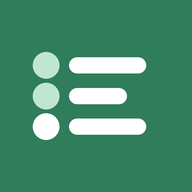
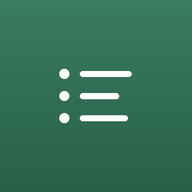
update

diff --git a/index.html b/index.html
@@ -219,8 +219,8 @@ body:not(.shop) .shoponly,body:not(.shop) .nx,body:not(.shop) .shopbar{display:n
 @keyframes tin{from{opacity:0;transform:translate(-50%,10px)}}
 .toast button{font-weight:600;white-space:nowrap;color:inherit;text-decoration:underline;text-underline-offset:3px}
 .gate{position:fixed;inset:0;z-index:40;background:var(--bg);display:grid;place-items:center;padding:24px;text-align:center}
-.gate .logo{width:64px;height:64px;border-radius:18px;background:var(--acc);color:var(--acc-ink);display:grid;place-items:center;margin:0 auto 20px}
-.gate .logo .i{width:32px;height:32px;stroke-width:2.2}
+.gate .logo{width:60px;height:60px;border-radius:17px;background:var(--acc);color:var(--acc-ink);display:grid;place-items:center;margin:0 auto 20px}
+.gate .logo .i{width:28px;height:28px;stroke-width:1.8}
 .gate h1{font-size:24px;font-weight:600;letter-spacing:-.015em;margin-bottom:6px}
 .gate p{color:var(--mute);max-width:300px;margin:0 auto 24px;font-size:15px}
 @media (prefers-reduced-motion:reduce){*{animation:none!important;transition:none!important}}
@@ -711,12 +711,18 @@ PAGES.templates = () => {
 function packPage(kind, argName){
   return () => {
     const id = args[argName], p = S[kind][id]; if (!p) return gone();
+    const pad = args.padded; setTimeout(() => { if (args.padded === pad) args.padded = null; }, 0);
     const items = p.items || [], tpl = kind === "templates", a = " data-kind='" + kind + "' data-k='" + esc(id) + "'";
     return {title:tpl ? p.name : cap(dateStr(p.at)), html:
+      (tpl ? "<div class='group'><label class='cell'><span class='lbl'>Naam</span><input class='inl grow' id='tplName' data-k='" + esc(id) + "' value='" + esc(p.name) + "' enterkeyhint='done'></label></div>" : "") +
       "<p class='lead'>" + nProd(items.length) + (tpl ? (storeName(p.store) ? " · alleen voor " + esc(storeName(p.store)) : "") : (p.stores ? " · " + esc(p.stores) : "")) + "</p>" +
       "<div class='line'><button class='btn grow' data-a='puse'" + a + ">Toevoegen aan lijst</button><button class='btn sec grow' data-a='pnew'" + a + ">Als nieuwe lijst</button></div>" +
       "<p class='hint'>Toevoegen telt op bij wat al op de lijst staat. Als nieuwe lijst vervangt de huidige lijst.</p>" +
-      "<h3 class='ch'>Producten</h3><div class='group'>" + items.map((i, n) => "<div class='cell'><span class='grow'>" + esc(i.name) + "</span><span class='qty'>" + esc(badge(i)) + "</span>" + (tpl ? "<button class='ib sm' data-a='pitem' data-k='" + esc(id) + "' data-i='" + n + "' aria-label='Uit template halen'>" + ico("x") + "</button>" : "") + "</div>").join("") + "</div>" +
+      "<h3 class='ch'>Producten</h3>" +
+      (tpl ? "<div class='line' style='margin-bottom:10px'><input class='field' id='tplAdd' placeholder='Toevoegen, bv. 2 paprika of 500 g gehakt' enterkeyhint='done' autocapitalize='sentences' data-enter='padd'><button class='btn' data-a='padd'>Toevoegen</button></div>" : "") +
+      (items.length ? "<div class='group'>" + items.map((i, n) => { const b = " data-k='" + esc(id) + "' data-i='" + n + "'"; return "<div class='cell" + (args.padded === n ? " flash" : "") + "'><span class='grow'>" + esc(i.name) + "</span>" + (tpl
+        ? "<div class='step'><button data-a='pstep'" + b + " data-d='-1' aria-label='Minder'>" + ico("minus") + "</button><b>" + amount(i) + "</b><button data-a='pstep'" + b + " data-d='1' aria-label='Meer'>" + ico("plus") + "</button></div><button class='ib sm' data-a='pitem'" + b + " aria-label='Uit template halen'>" + ico("x") + "</button>"
+        : "<span class='qty'>" + esc(badge(i)) + "</span>") + "</div>"; }).join("") + "</div>" : "<p class='hint' style='margin:0 2px 14px'>Deze template is nog leeg.</p>") +
       "<button class='btn text danger wide' data-a='pdel'" + a + ">" + (tpl ? "Template verwijderen" : "Uit Vorige lijsten verwijderen") + "</button>"};
   };
 }
@@ -785,7 +791,14 @@ function render(force){
   else {
     P = PAGES[route]();
     const ae = document.activeElement;
-    if (force || !(ae && /INPUT|SELECT/.test(ae.tagName) && $("page").contains(ae))) $("page").innerHTML = P.html;
+    const typing = ae && /INPUT|SELECT/.test(ae.tagName) && $("page").contains(ae);
+    if (force || !typing) {
+      // Half getypte tekst in toevoegvelden blijft staan als de pagina opnieuw getekend wordt.
+      const keep = [...$("page").querySelectorAll("input.field")].filter(i => i.id && i.value).map(i => [i.id, i.value]), foc = typing && ae.id;
+      $("page").innerHTML = P.html;
+      keep.forEach(([id, v]) => { if ($(id)) $(id).value = v; });
+      if (foc && $(foc) && $(foc).classList.contains("field")) $(foc).focus();
+    }
   }
   const sub = !!PARENT[route];
   $("barIn").innerHTML = (sub ? "<button class='ib back' data-a='back' aria-label='Terug'>" + ico("chevL") + "</button>" : "") + "<div class='grow'><h1" + (sub ? " class='sm'" : "") + ">" + esc(P.title) + "</h1>" + (P.sub ? "<div class='sub'>" + P.sub + "</div>" : "") + "</div>" + (P.act || "");
@@ -849,7 +862,30 @@ const ACT = {
   puse:(k, t) => { const p = S[t.dataset.kind][k]; if (p) applyPack(packName(t.dataset.kind, p), p.items, false); },
   pnew:(k, t) => { const p = S[t.dataset.kind][k]; if (p) applyPack(packName(t.dataset.kind, p), p.items, true); },
   pdel:(k, t) => { const c = t.dataset.kind, old = S[c][k]; back(); DB.del(c, k); toast("Verwijderd", "Ongedaan maken", () => DB.set(c, k, old)); },
-  pitem:(k, t) => { const tp = S.templates[k]; if (tp) DB.set("templates", k, {items:(tp.items || []).filter((x, i) => i !== +t.dataset.i)}); },
+  pitem:(k, t) => { const tp = S.templates[k]; if (!tp) return; DB.set("templates", k, {items:(tp.items || []).filter((x, i) => i !== +t.dataset.i)}); render(true); },
+  pstep:(k, t) => {
+    const tp = S.templates[k]; if (!tp) return;
+    const items = (tp.items || []).map(x => ({...x})), i = +t.dataset.i, it = items[i]; if (!it) return;
+    const q = (it.qty || 1) + (+t.dataset.d) * stepOf(it.unit);
+    if (q <= 0) items.splice(i, 1); else it.qty = Math.round(q * 100) / 100;
+    DB.set("templates", k, {items}); render(true);
+  },
+  padd:() => {
+    const inp = $("tplAdd"), a = parse(inp.value), key = keyOf(a.name), k = args.template, tp = S.templates[k];
+    if (!key || !tp) return inp.focus();
+    const p = product(key), items = (tp.items || []).map(x => ({...x})), i = items.findIndex(x => keyOf(x.name) === key);
+    if (i >= 0) {
+      const ex = items[i], d = a.explicit ? convert(a.qty, a.unit || "", ex.unit || "") : stepOf(ex.unit);
+      if (d === null) toast(ex.name + " staat er al als " + amount(ex)); else ex.qty = Math.round(((ex.qty || 1) + d) * 100) / 100;
+      args.padded = i;
+    } else {
+      const unit = a.explicit ? (a.unit || "") : ((p && p.unit) || "");
+      items.push({name:p ? p.name : cap(a.name), qty:a.explicit ? a.qty : ((p && p.unit && p.dq) || defQty(unit)), unit, cat:p ? p.cat : guessCat(a.name), note:""});
+      args.padded = items.length - 1;
+    }
+    inp.value = ""; inp.focus();
+    DB.set("templates", k, {items}); render(true);
+  },
   tsave:() => {
     const inp = $("tName"), name = inp.value.trim(); if (!name) return inp.focus();
     const st = $("tStore") && $("tStore").checked ? store().id : "";
@@ -880,6 +916,7 @@ document.addEventListener("click", e => {
 document.addEventListener("change", e => {
   const t = e.target, k = t.dataset.k;
   if (t.id === "noteIn") DB.set("items", k, {note:t.value.trim()});
+  else if (t.id === "tplName") { const n = t.value.trim(); if (n && S.templates[k]) DB.set("templates", k, {name:n}); else render(true); }
   else if (t.id === "amtIn") { const n = parseFloat(t.value.replace(",", ".")); t.blur(); if (n > 0) DB.set("items", k, {qty:Math.round(n * 100) / 100}); else render(true); }
   else if (t.id === "catSel") { t.blur(); ACT.setcat(k, t.value); }
   else if (t.id === "storeSel") { t.blur(); ACT.setstore(k, t.value); }
@@ -887,7 +924,7 @@ document.addEventListener("change", e => {
 document.addEventListener("keydown", e => {
   const t = e.target; if (e.key !== "Enter" || !t.dataset) return;
   if (t.dataset.enter) { e.preventDefault(); ACT[t.dataset.enter](); }
-  else if (t.id === "amtIn" || t.id === "noteIn") t.blur();
+  else if (t.id === "amtIn" || t.id === "noteIn" || t.id === "tplName") t.blur();
 });
 document.addEventListener("focusout", e => { if ($("page").contains(e.target)) setTimeout(() => { if (route !== "lijst") render(); }, 0); });
 $("addForm").addEventListener("submit", e => {
@@ -965,7 +1002,7 @@ document.addEventListener("visibilitychange", () => { if (document.visibilitySta
 
 /* ---------- start ---------- */
 applyTheme(); buildTabs();
-$("addIco").outerHTML = ico("plus"); $("addBtn").innerHTML = ico("arrowUp"); $("gateLogo").innerHTML = ico("check");
+$("addIco").outerHTML = ico("plus"); $("addBtn").innerHTML = ico("arrowUp"); $("gateLogo").innerHTML = ico("list");
 const cfg = window.FIREBASE_CONFIG || {};
 if (cfg.apiKey) { DB = Fire; Fire.init(cfg).catch(e => gate("Firebase laden mislukt: " + (e.message || e))); }
 else { DB = Local; Local.init(); }
